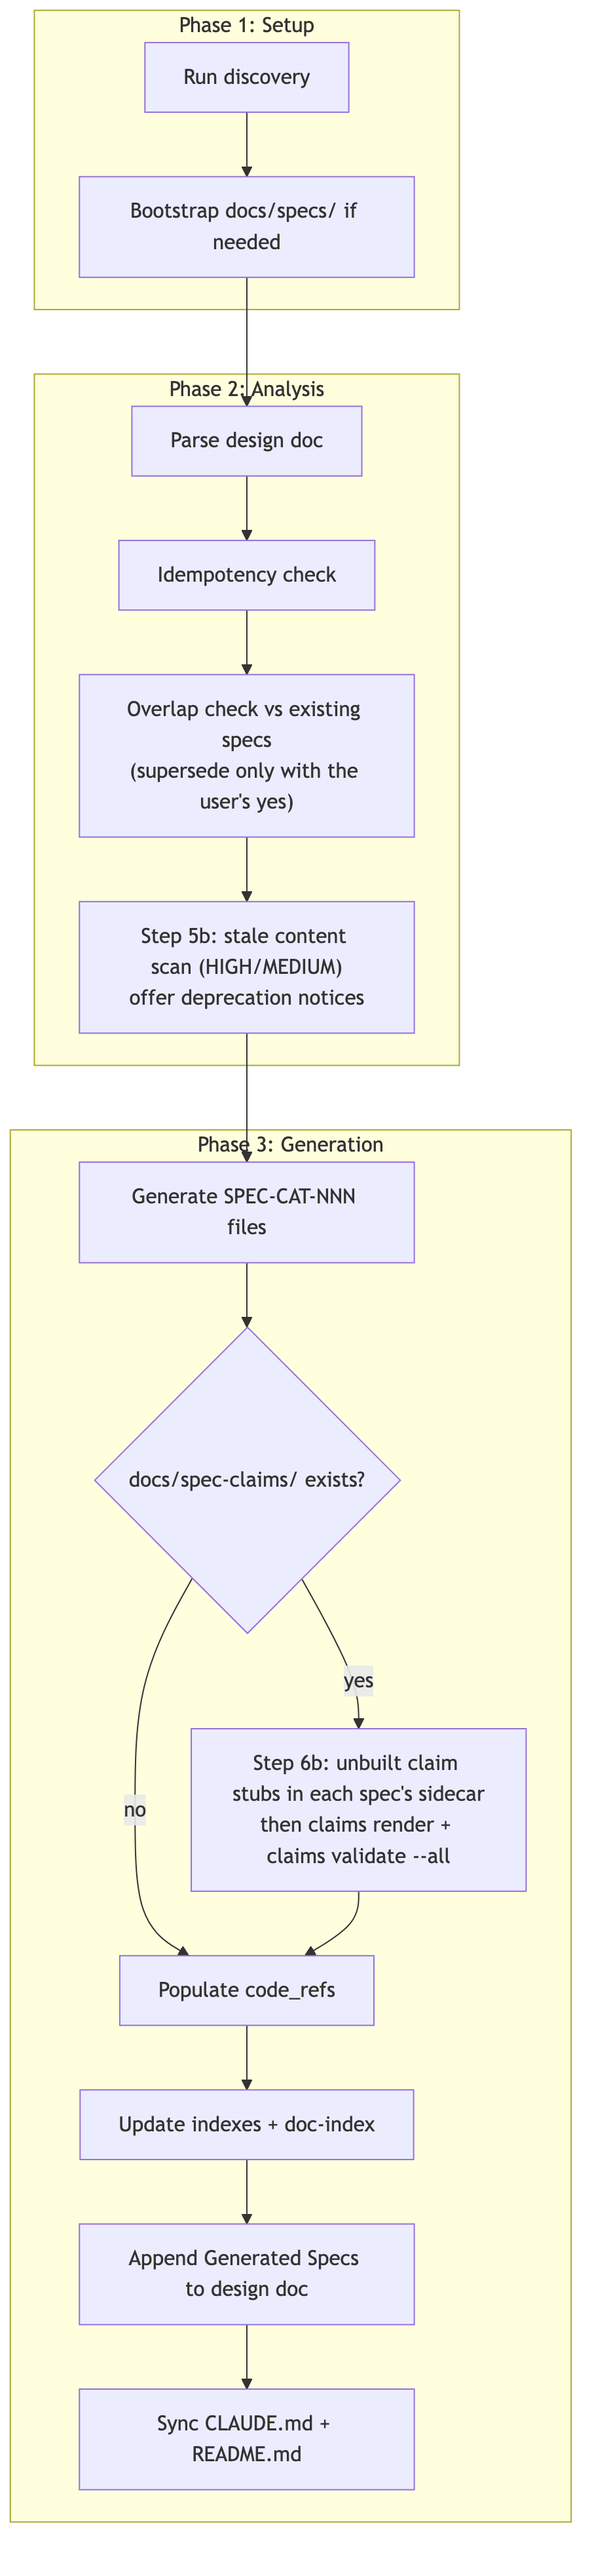
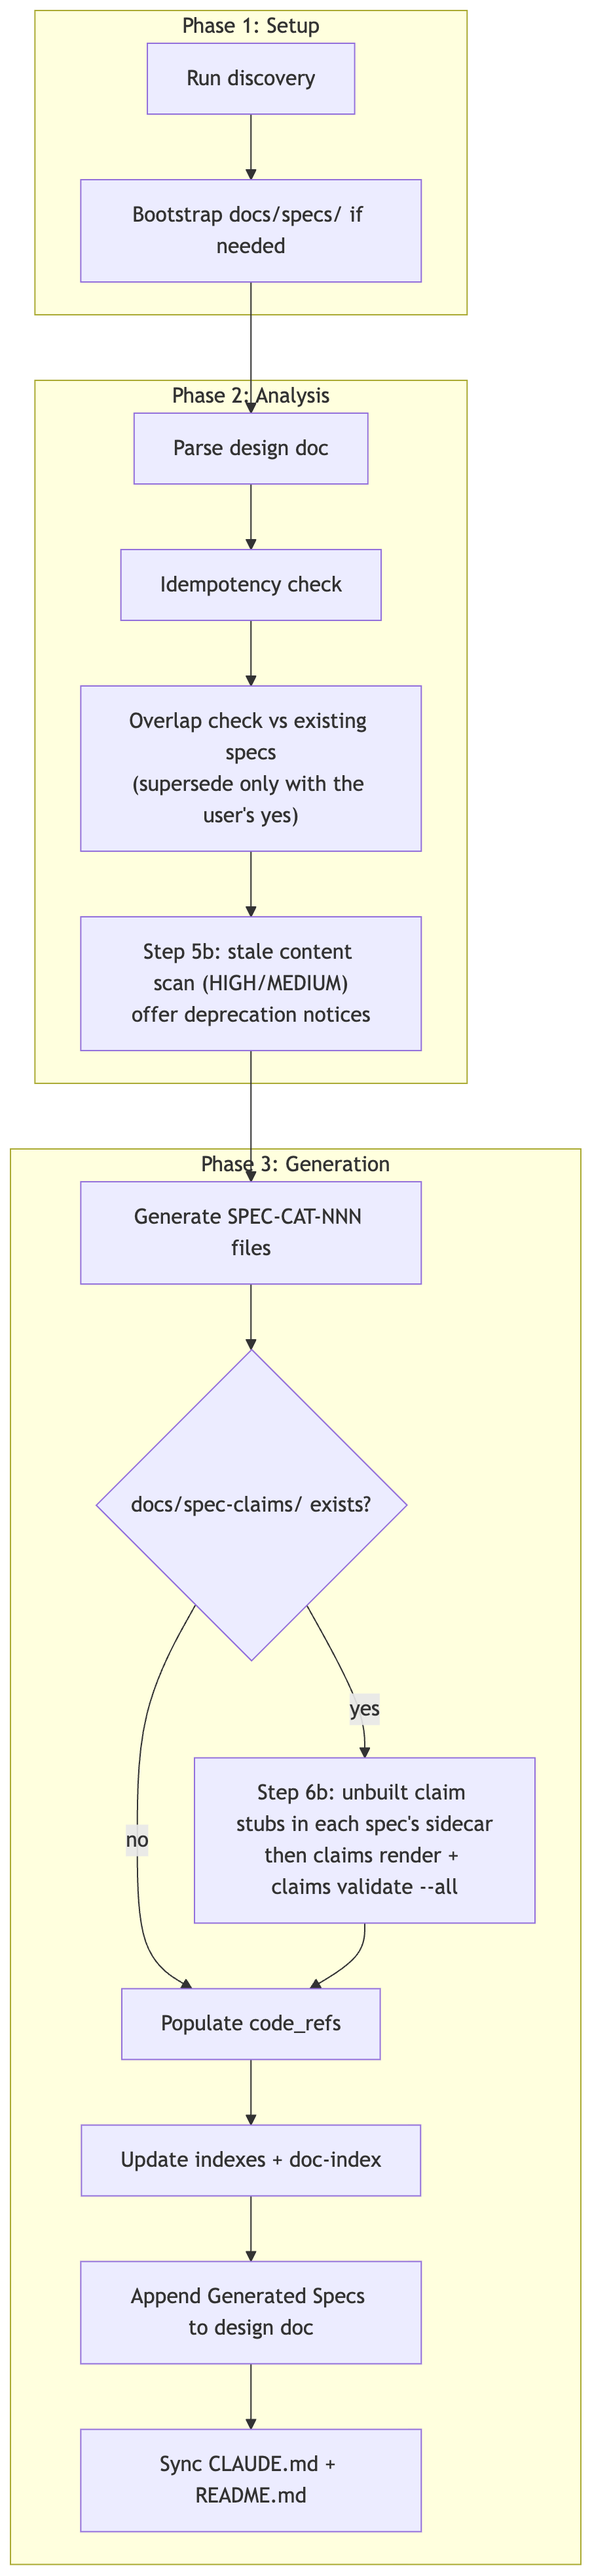
docs: redraw every diagram with the local renderer
All 13 PNGs come from `doc-tools.sh diagram render` with system Chrome.
In the C4 container diagram, the agents-to-search label moves left: the
new layout put it on top of the claims-check label.

Changed region(s): [[0.0, 0.0, 0.9912, 1.0], [0.031, 0.1553, 0.0619, 0.4038], [0.031, 0.0, 0.0619, 0.1242]]

diff --git a/docs/architecture/system-overview.md b/docs/architecture/system-overview.md
@@ -145,7 +145,7 @@ C4Container
   UpdateRelStyle(hooks, ledger, $offsetX="0", $offsetY="64")
   UpdateRelStyle(search, project, $offsetX="0", $offsetY="12")
   UpdateRelStyle(search, gcloud, $offsetX="0", $offsetY="16")
-  UpdateRelStyle(agents, search, $offsetX="-60", $offsetY="0")
+  UpdateRelStyle(agents, search, $offsetX="-320", $offsetY="0")
   UpdateRelStyle(ledger, ledgerdata, $offsetX="0", $offsetY="40")
   UpdateRelStyle(ledger, project, $offsetX="0", $offsetY="-8")
   UpdateRelStyle(ledger, adapters, $offsetX="0", $offsetY="24")
